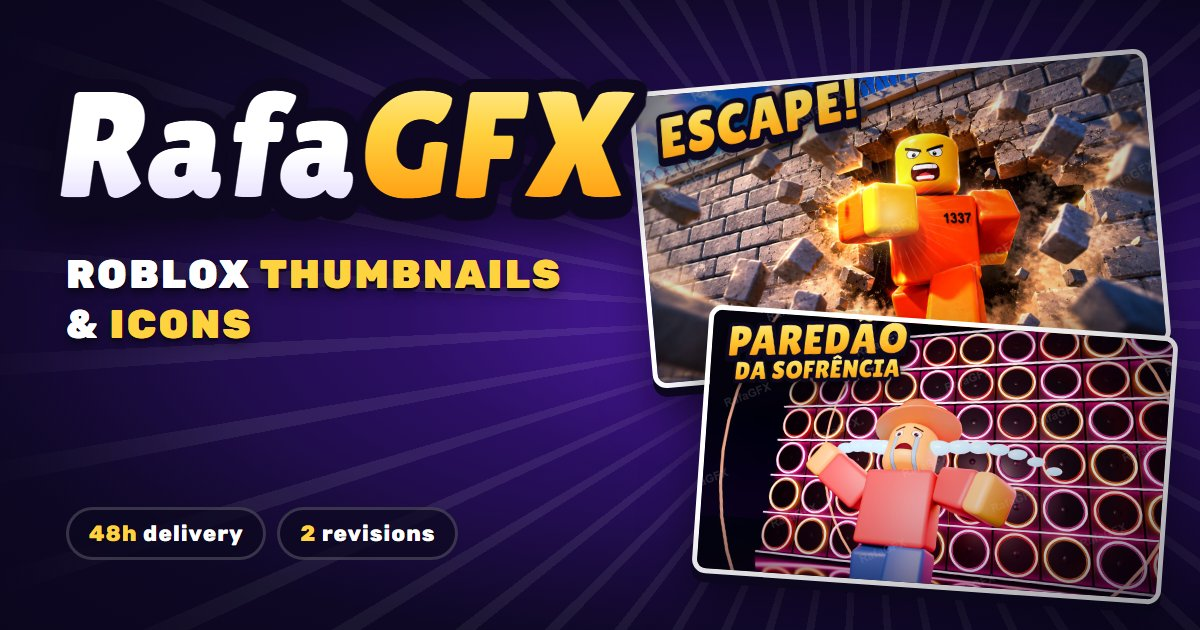
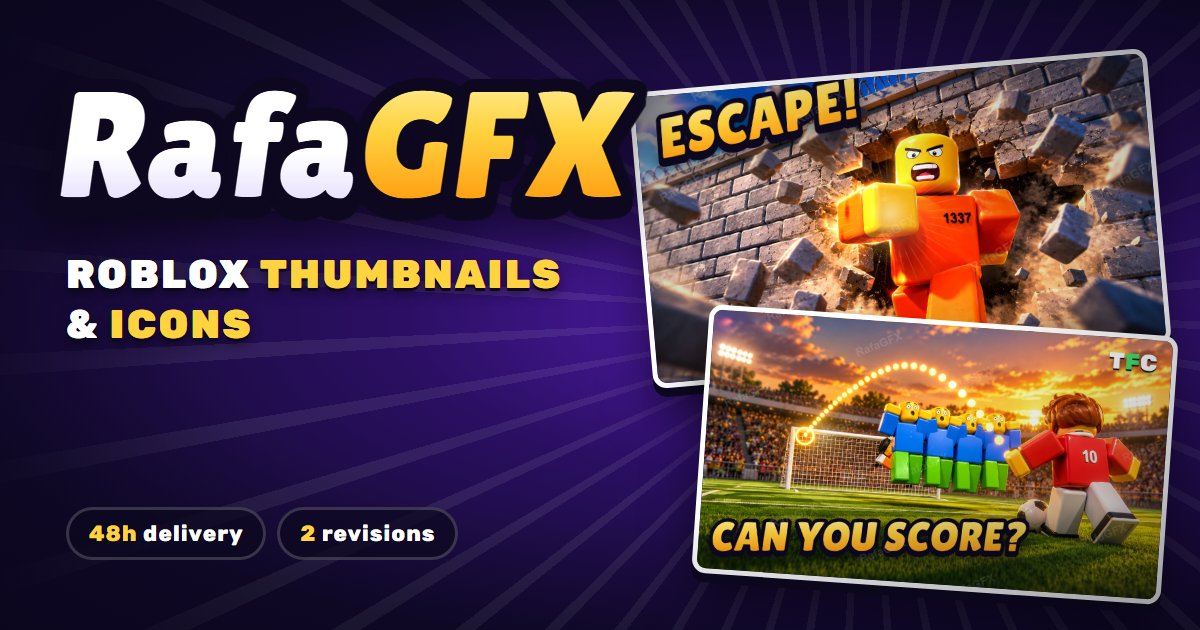
Portfolio: RoMusic no lugar do Paredao e icone novo do Brazil

Changed region(s): [[0.555, 0.4825, 0.9867, 0.9651]]

diff --git a/index.html b/index.html
@@ -437,9 +437,9 @@
     { slug: "restore", nome: "Restore The World",
       en: "The whole game in one picture: dead land turning green, tile by tile, where the water hits.",
       pt: "O jogo inteiro numa imagem: o mundo morto virando verde, quadrado por quadrado, onde a água cai." },
-    { slug: "paredao", nome: "Paredão da Sofrência",
-      en: "The bass hits so hard the tears fly sideways.",
-      pt: "O grave bate tão forte que as lágrimas voam pro lado." }
+    { slug: "romusic", nome: "RoMusic",
+      en: "A screenshot of the music player became the feeling of the music: headphones on, speakers glowing, phonk in the air.",
+      pt: "O print do player virou a sensação da música: fone na cabeça, caixas acesas e phonk no ar." }
   ];
 
   const TERMOS = [
